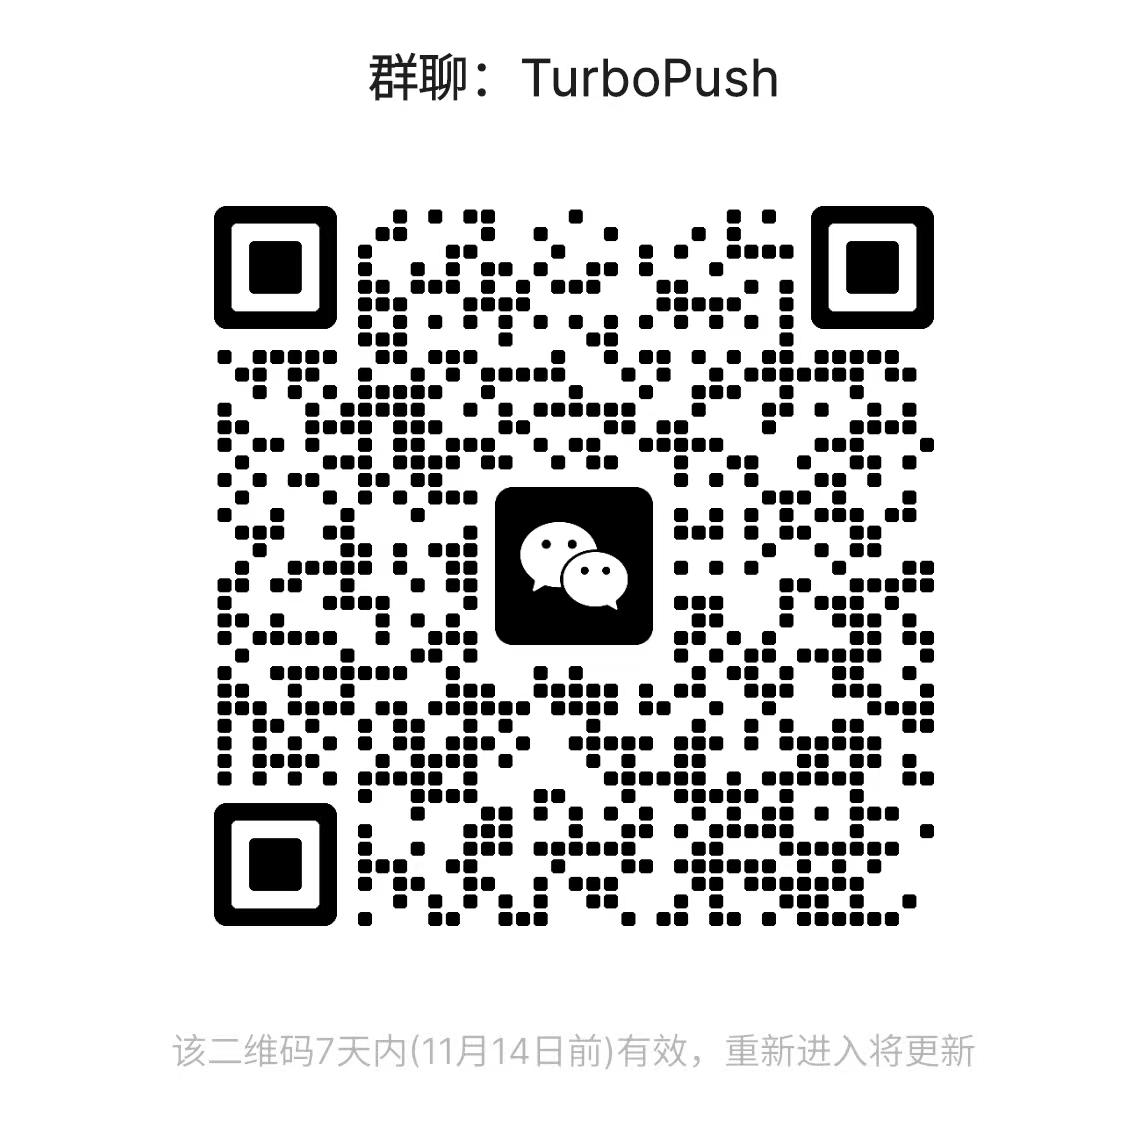
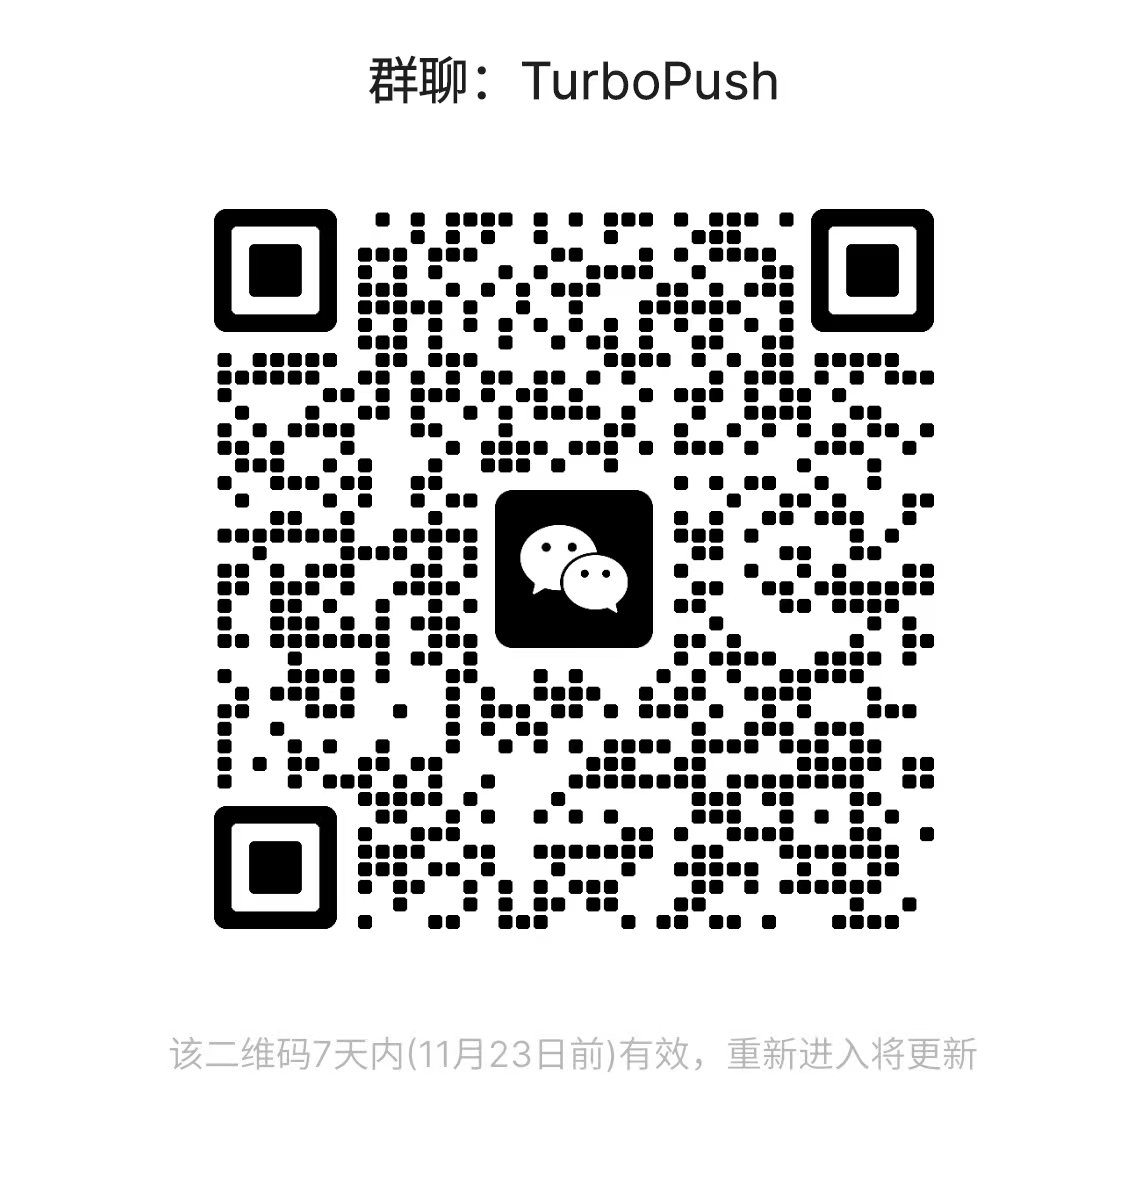
更新wx群二维码，添加已支持平台

diff --git a/src/components/sections/platforms-section.tsx b/src/components/sections/platforms-section.tsx
@@ -145,6 +145,13 @@ const defaultPlatforms: Platform[] = [
     status: 'active',
     description: '支持视频发布',
   },
+  {
+    name: 'X',
+    icon: '<svg t="1762412974726" class="icon" viewBox="0 0 1024 1024" version="1.1" xmlns="http://www.w3.org/2000/svg" p-id="18620" width="200" height="200"><path d="M786.176 85.333333h144.768l-316.288 361.472L986.709333 938.666667h-291.328l-228.138666-298.325334L206.08 938.666667H61.354667l338.261333-386.645334L42.666667 85.333333h298.709333l206.250667 272.64L786.133333 85.333333z m-50.816 766.72h80.213333L297.770667 167.381333H211.712L735.36 852.053333z" p-id="18621" fill="#000000"></path></svg>',
+    supported: true,
+    status: 'active',
+    description: '支持图文、视频发布',
+  },
 ];
 
 // 简化的状态指示器函数（现在使用圆点指示器）

diff --git a/README.md b/README.md
@@ -43,6 +43,7 @@
 | CSDN       | 文章/视频      |
 | TikTok     | 视频           |
 | YouTube    | 视频           |
+| X          | 图文/视频      |
 
 ## 🚀 关于 TurboPush
 
